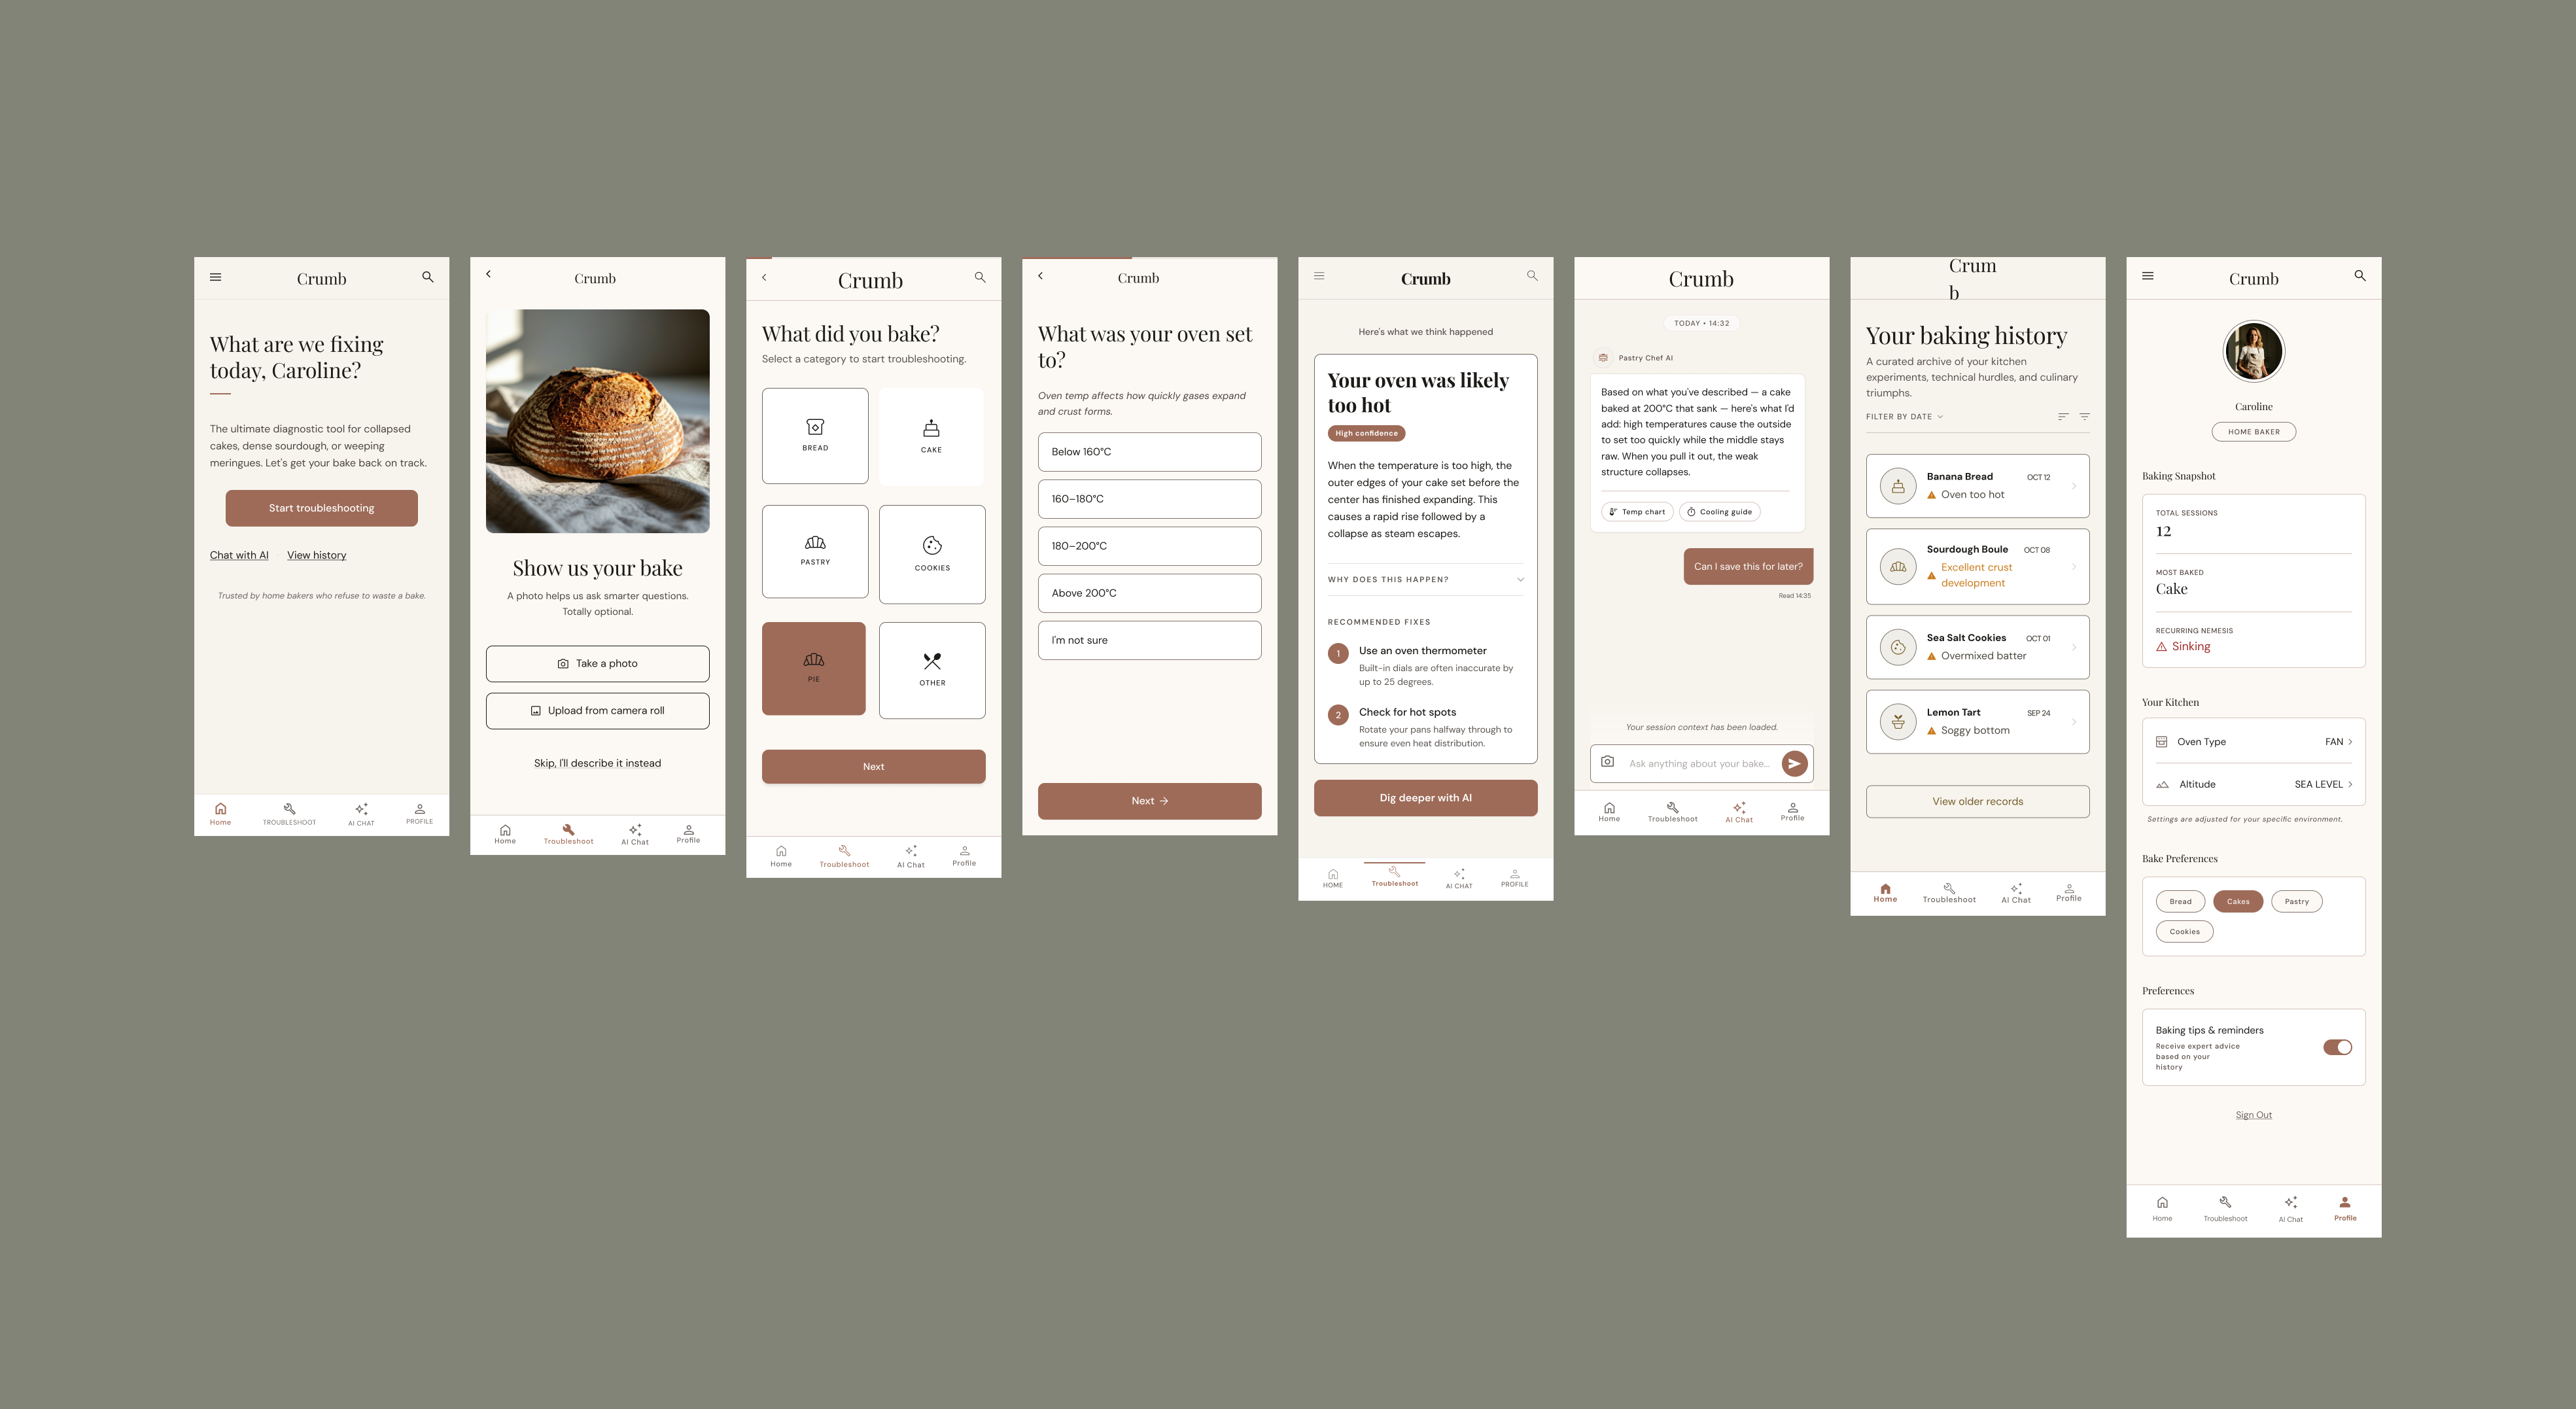
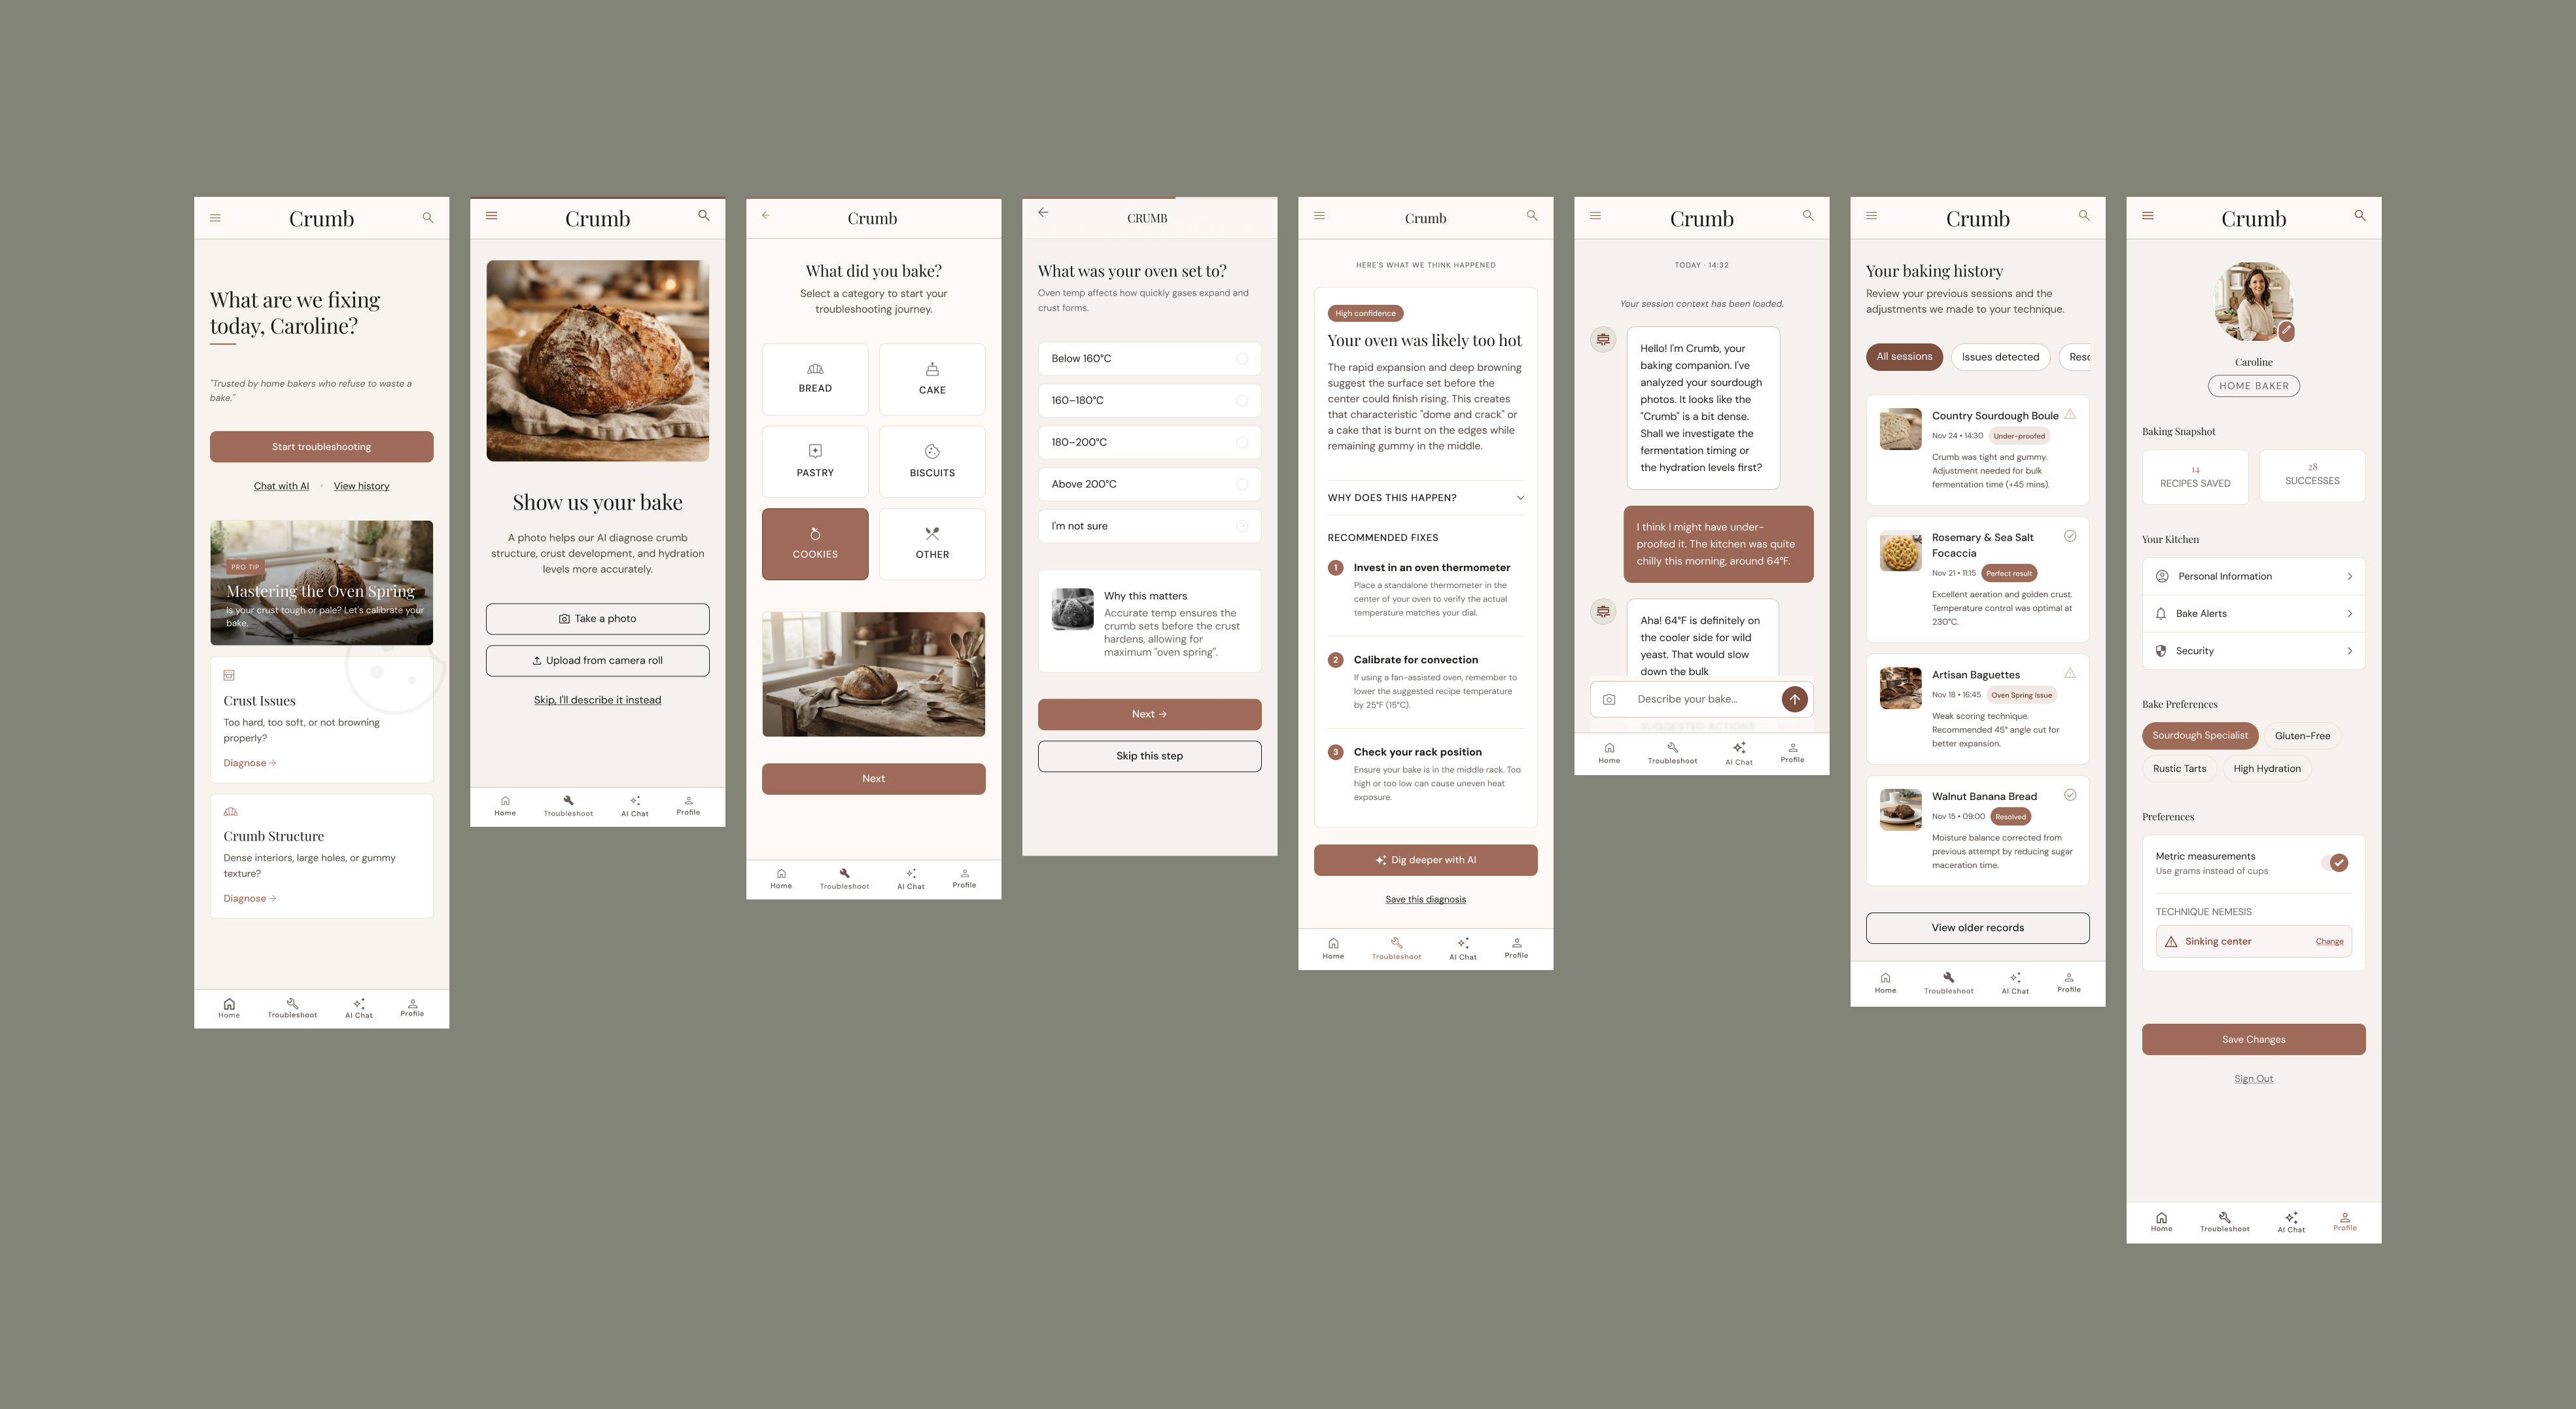
rounds

diff --git a/lib/data.ts b/lib/data.ts
@@ -589,20 +589,18 @@ export const caseStudies: Record<string, CaseStudy> = {
           {
             title: "Round 1",
             content: "Stitch interpreted the editorial tone well. The parchment background, typography hierarchy, and card layout all landed. But structural issues appeared immediately.",
-            subtitle: "Key issues caught",
             listType: "bullet",
             items: [
               "Gold accent failed WCAG AA contrast (ratio 2.8:1 on white)",
-              "Nav bar active state inconsistent across every screen",
+              "Nav bar active state and button styling inconsistent across every screen",
               "Bake names in History truncated mid-word",
-              "Stitch added unsolicited content sections not in the spec"
+              "Stitch added additional content sections not in the spec"
             ],
             image: { src: "/version1.png", caption: "Version 1 — all screens" }
           },
           {
             title: "Round 2",
             content: "Updated colour system, lighter card borders, AI chat bubble switched to white, primary CTA button corrected.",
-            subtitle: "Still missing",
             listType: "bullet",
             items: [
               "No left/right content margins",
@@ -614,27 +612,25 @@ export const caseStudies: Record<string, CaseStudy> = {
           {
             title: "Round 3",
             content: "Margins applied, card removed from Home, button text mostly sentence case, colour system consistent.",
-            subtitle: "Still missing",
             listType: "bullet",
             items: [
-              "Nav labels alternating between ALL CAPS and title case across screens",
-              "Wordmark had an icon artefact embedded in it on the AI Chat screen",
-              "Pastry tile used a sparkle icon (inaccurate for pastry)"
+              "Nav labels inconsistent across screens",
+              "Result looked not refined",
+              "Some components felt chunky"
             ],
             image: { src: "/version3.png", caption: "Version 3 — all screens" }
           },
           {
-            title: "Round 4 — Final Stitch Output",
-            content: "5 of 8 screens mostly met the direction. Three screens still had issues for Figma to resolve.",
-            subtitle: "Remaining issues handed to Figma",
+            title: "Round 4 — Inspiration-led refinement",
+            content: "I looked for references in cooking and baking apps and editorial designs. I fed selected examples directly into Stitch and asked it to refine based on those references.",
             listType: "bullet",
             items: [
-              "Baking History wordmark split across two lines",
-              "Category Selection: wrong categories, wrong grid order, wrong icon",
-              "AI Chat missing the top bar entirely",
+              "Nav bar active state still inconsistent across screens",
+              "Heading size and logo scale vary between screens",
+              "Wrong icons on the Bake Category Selection screen",
               "Small inconsistency on several screens"
             ],
-            image: { src: "/version4.png", caption: "Version 4 — final screens, annotated" }
+            image: { src: "/version4.png", caption: "Version 4 — final screens" }
           }
         ]
       }